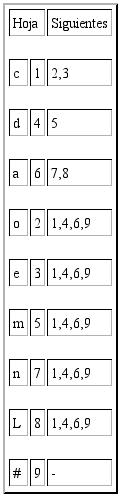
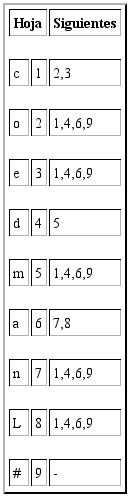
onceavo

diff --git a/Reportes_202003894/Siguientes_202003894/RegEx3.html b/Reportes_202003894/Siguientes_202003894/RegEx3.html
@@ -1,22 +1,12 @@
 <table border="2">
 <tr>
-<td colspan="2">Hoja</td>
-<td>Siguientes</td>
+<th colspan="2">Hoja</th>
+<th>Siguientes</th>
 <tr>
 </tr>
 <td>c</td>
 <td>1</td>
 <td>2,3</td>
-<tr>
-</tr>
-<td>d</td>
-<td>4</td>
-<td>5</td>
-<tr>
-</tr>
-<td>a</td>
-<td>6</td>
-<td>7,8</td>
 <tr>
 </tr>
 <td>o</td>
@@ -29,9 +19,19 @@
 <td>1,4,6,9</td>
 <tr>
 </tr>
+<td>d</td>
+<td>4</td>
+<td>5</td>
+<tr>
+</tr>
 <td>m</td>
 <td>5</td>
 <td>1,4,6,9</td>
+<tr>
+</tr>
+<td>a</td>
+<td>6</td>
+<td>7,8</td>
 <tr>
 </tr>
 <td>n</td>

diff --git a/Reportes_202003894/Siguientes_202003894/ExpReg1.html b/Reportes_202003894/Siguientes_202003894/ExpReg1.html
@@ -1,7 +1,12 @@
 <table border="2">
 <tr>
-<td colspan="2">Hoja</td>
-<td>Siguientes</td>
+<th colspan="2">Hoja</th>
+<th>Siguientes</th>
+<tr>
+</tr>
+<td>letra</td>
+<td>1</td>
+<td>2,3,4,5</td>
 <tr>
 </tr>
 <td>\"</td>
@@ -16,11 +21,6 @@
 </tr>
 <td>digito</td>
 <td>4</td>
-<td>2,3,4,5</td>
-<tr>
-</tr>
-<td>letra</td>
-<td>1</td>
 <td>2,3,4,5</td>
 <tr>
 </tr>

diff --git a/Reportes_202003894/Siguientes_202003894/ExpresionReg2.html b/Reportes_202003894/Siguientes_202003894/ExpresionReg2.html
@@ -1,12 +1,12 @@
 <table border="2">
 <tr>
-<td colspan="2">Hoja</td>
-<td>Siguientes</td>
+<th colspan="2">Hoja</th>
+<th>Siguientes</th>
 <tr>
 </tr>
 <td>digito</td>
-<td>3</td>
-<td>3,4</td>
+<td>1</td>
+<td>2</td>
 <tr>
 </tr>
 <td>.</td>
@@ -15,8 +15,8 @@
 <tr>
 </tr>
 <td>digito</td>
-<td>1</td>
-<td>2</td>
+<td>3</td>
+<td>3,4</td>
 <tr>
 </tr>
 <td>#</td>

diff --git a/src/Arboles/ListaSiguientes.java b/src/Arboles/ListaSiguientes.java
@@ -26,12 +26,33 @@ public class ListaSiguientes {
         }
         else{
             NodoSiguientes nuevo = new NodoSiguientes(lexema, nodo, siguientes);
-            if(this.primero != null){
-                this.ultimo.siguiente = nuevo;
+            if (this.primero == null){
+                this.primero = this.ultimo = nuevo;
+            }
+            else if (Integer.parseInt(this.primero.nodo) < Integer.parseInt(nuevo.nodo) && this.primero.siguiente == null){
+                this.primero.siguiente = nuevo;
                 this.ultimo = nuevo;
             }
+            else if (Integer.parseInt(this.primero.nodo) > Integer.parseInt(nuevo.nodo)){
+                nuevo.siguiente = this.primero;
+                this.primero = nuevo;
+            }
             else{
-                this.primero = this.ultimo = nuevo;
+                NodoSiguientes aux2 = this.primero;
+                while(aux2 != null){
+                    if (aux2 == this.ultimo && Integer.parseInt(aux2.nodo) < Integer.parseInt(nuevo.nodo)){
+                        aux2.siguiente = nuevo;
+                        this.ultimo = nuevo;
+                        break;
+                    }
+                    else if (aux2 != this.ultimo && Integer.parseInt(aux2.siguiente.nodo) > Integer.parseInt(nuevo.nodo) && Integer.parseInt(aux2.nodo) < Integer.parseInt(nuevo.nodo)){
+                        nuevo.siguiente = aux2.siguiente;
+                        aux2.siguiente = nuevo;
+                        break;
+                    }
+
+                    aux2 = aux2.siguiente;
+                }
             }
         }
     }
@@ -53,7 +74,7 @@ public class ListaSiguientes {
         NodoSiguientes aux = this.primero;
         String rutaActual = System.getProperty("user.dir");
         
-        String html = "<table border=\"2\">\n<tr>\n<td colspan=\"2\">Hoja</td>\n<td>Siguientes</td>\n<tr>\n";
+        String html = "<table border=\"2\">\n<tr>\n<th colspan=\"2\">Hoja</th>\n<th>Siguientes</th>\n<tr>\n";
         
         while(aux != null){
             html += "</tr>\n<td>"+aux.lexema+"</td>\n<td>"+aux.nodo+"</td>\n<td>"+aux.listSiguientes+"</td>\n<tr>\n";
